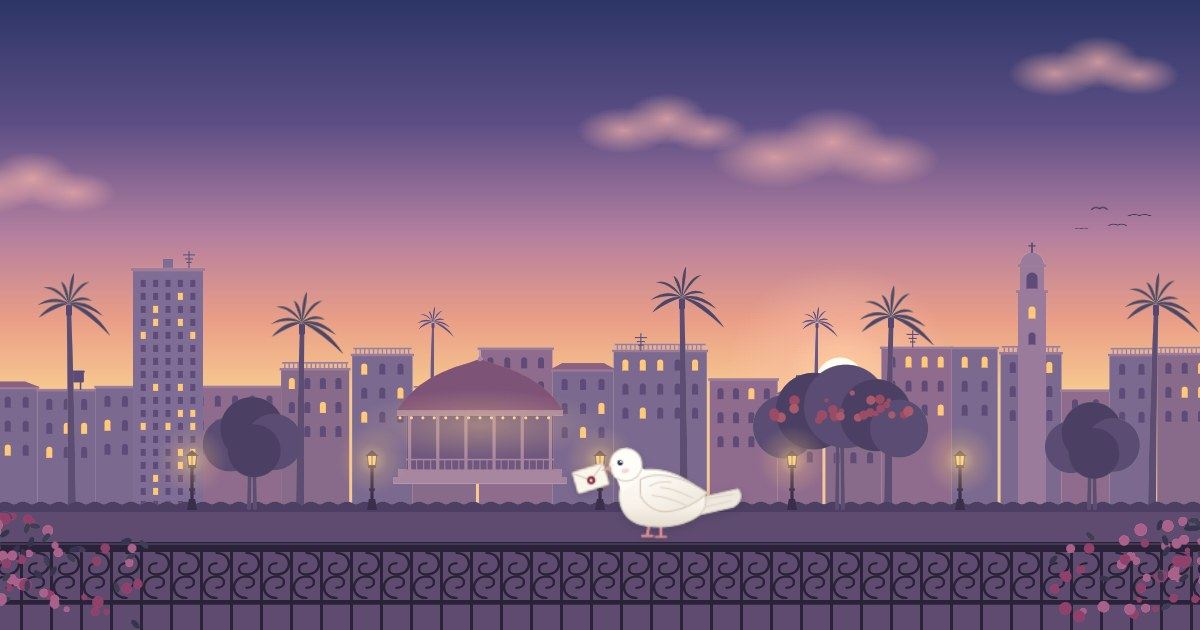
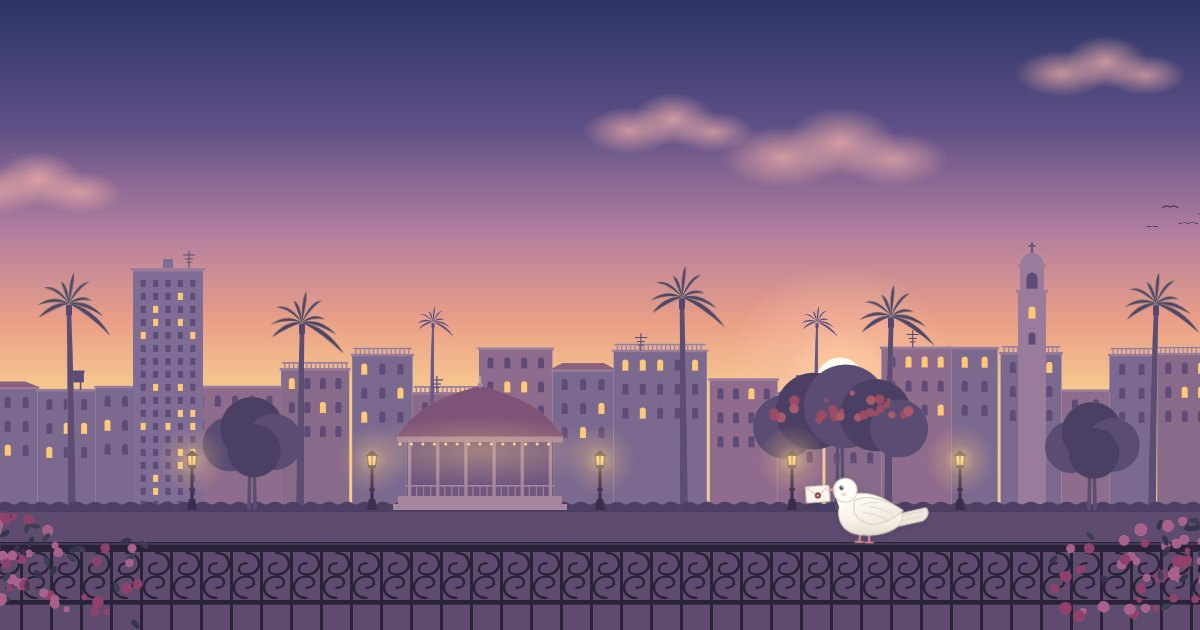
La glorieta se apoya en el suelo del parque
Su alto depende de su ancho, pero su posición se fijaba aparte, en un
porcentaje de la pantalla, y quedaba flotando 65–80 px por encima del
suelo (en móvil y en escritorio). Ahora su base se calcula desde el suelo,
como las farolas. Imagen de la vista previa de WhatsApp rehecha.

Changed region(s): [[0.3083, 0.573, 0.6167, 0.8746], [0.6475, 0.754, 0.7708, 0.8746], [0.5858, 0.4825, 0.6167, 0.5127]]

diff --git a/src/city/layout.ts b/src/city/layout.ts
@@ -32,10 +32,15 @@ export type CityLayout = {
 
 const clamp = (v: number, min: number, max: number) => Math.min(max, Math.max(min, v));
 
+/** Alto total de la glorieta según su ancho: techo, columnas, plataforma y escalones (ver `glorieta` en Skyline). */
+export const glorietaHeight = (width: number) => width * 0.68 + 19;
+
 export function cityLayout({ width: W, height: H }: Pick<Viewport, 'width' | 'height'>): CityLayout {
   const desktop = W >= 1024;
   const railTop = Math.round(H * (desktop ? 0.86 : 0.865));
   const ground = Math.round(H * 0.8);
+  // La glorieta se apoya en el suelo del parque, como las farolas: su alto sale de su ancho.
+  const onGround = (x: number, width: number) => ({ x, width, top: ground + 6 - glorietaHeight(width) });
 
   if (desktop) {
     const lamps = [0.16, 0.31, 0.5, 0.66, 0.8].map((f) => ({ x: W * f, top: H * 0.715 }));
@@ -49,7 +54,7 @@ export function cityLayout({ width: W, height: H }: Pick<Viewport, 'width' | 'he
       roofs: { min: H * 0.55, max: H * 0.63 },
       hotel: { x: W * 0.14, width: clamp(W * 0.055, 70, 96), top: H * 0.43 },
       tower: { x: W * 0.86, top: H * 0.385 },
-      glorieta: { x: W * 0.4, width: clamp(W * 0.13, 160, 220), top: H * 0.565 },
+      glorieta: onGround(W * 0.4, clamp(W * 0.13, 160, 220)),
       palms: [
         { x: W * 0.06, top: H * 0.47, lean: -3 },
         { x: W * 0.25, top: H * 0.5, lean: 2 },
@@ -79,7 +84,7 @@ export function cityLayout({ width: W, height: H }: Pick<Viewport, 'width' | 'he
     roofs: { min: H * 0.56, max: H * 0.635 },
     hotel: { x: W * 0.17, width: clamp(W * 0.15, 52, 70), top: H * 0.445 },
     tower: { x: W * 0.8, top: H * 0.395 },
-    glorieta: { x: W * 0.3, width: clamp(W * 0.32, 100, 136), top: H * 0.585 },
+    glorieta: onGround(W * 0.3, clamp(W * 0.32, 100, 136)),
     palms: [
       { x: W * 0.07, top: H * 0.48, lean: -3 },
       { x: W * 0.62, top: H * 0.505, lean: 2 },

diff --git a/src/city/Skyline.tsx b/src/city/Skyline.tsx
@@ -353,7 +353,10 @@ function farola(key: string, x: number, top: number, ground: number) {
   );
 }
 
-/** La glorieta del Parque Vidal: plataforma, columnas, barandilla y techo de campana con bombillos. */
+/**
+ * La glorieta del Parque Vidal: plataforma, columnas, barandilla y techo de campana con bombillos.
+ * Si cambian sus proporciones, hay que ajustar `glorietaHeight` (layout.ts), que la apoya en el suelo.
+ */
 function glorieta({ x, width: w, top }: CityLayout['glorieta']) {
   const half = w / 2;
   const roofH = w * 0.34;
